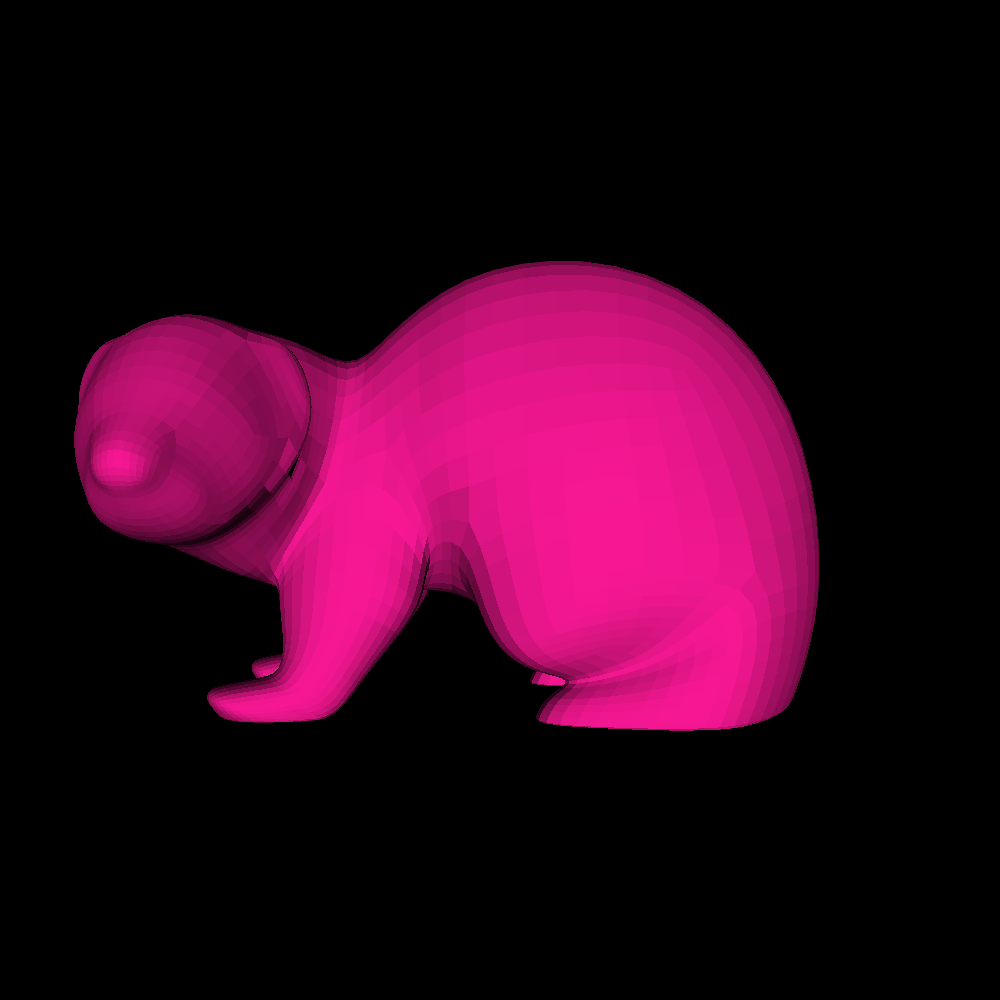
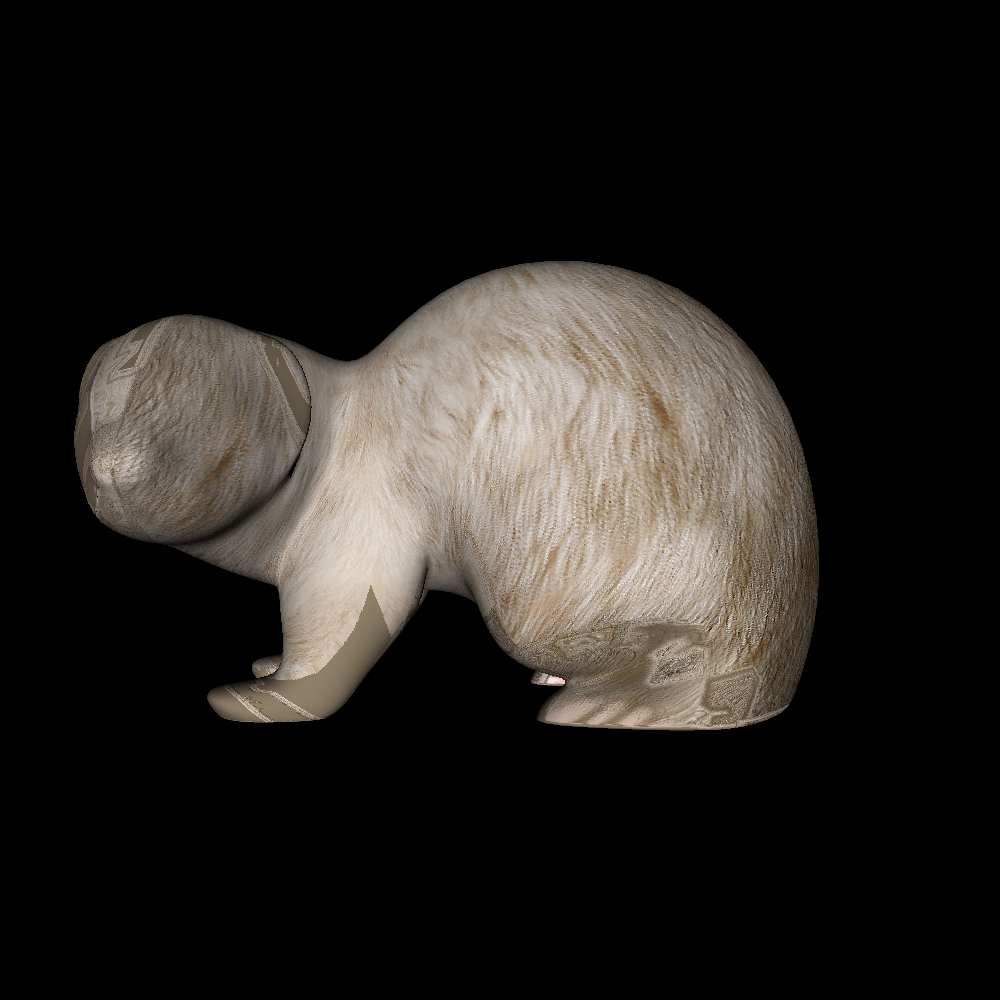
сломанные текстуры

Changed region(s): [[0.062, 0.248, 0.837, 0.744]]

diff --git a/lab3/main.py b/lab3/main.py
@@ -44,18 +44,26 @@ def normal(x0, y0, z0, x1, y1, z1, x2, y2, z2):
     return n
 
 
-def pict(x0, y0, z0, x1, y1, z1, x2, y2, z2, image_matrix, color):
+def pict(x0, y0, z0, x1, y1, z1, x2, y2, z2, image_matrix, intensity0, intensity1, intensity2, u0, v0, u1, v1, u2, v2,
+         texture_img):
     xmin = round(max(min(x0, x1, x2), 0))
     ymin = round(max(min(y0, y1, y2), 0))
     xmax = round(min(max(x0, x1, x2), 1000 - 1))
     ymax = round(min(max(y0, y1, y2), 1000 - 1))
+    width, height, colors=texture_img.shape
     for x in range(xmin, xmax + 1):
         for y in range(ymin, ymax + 1):
             l0, l1, l2 = baricentic(x, y, x0, y0, x1, y1, x2, y2)
             if (l0 >= 0 and l1 >= 0 and l2 >= 0):
                 z = l0 * z0 + l1 * z1 + l2 * z2
                 if (z < z_buffer[y, x]):
-                    image_matrix[y, x] = color
+                    intensity_for_pixel = -(intensity0*l0+intensity1*l1+intensity2*l2)
+                    if (intensity_for_pixel<0):
+                        intensity_for_pixel=0
+                    color=texture_img[round(width*(l0*u0+l1*u1+l2*u2))][ round(height * (l0*v0+l1*v1+l2*v2))]
+                    # color =np.array([248, 24, 148]) #розовый
+                    #color = np.array([0, 128, 255]) #голубой
+                    image_matrix[y, x] = intensity_for_pixel * color
                     z_buffer[y, x] = z
 
 
@@ -88,74 +96,92 @@ def rotation_matrix(x_alpha, y_beta, z_gamma):
     return r
 
 
-image_matrix = np.zeros((1000, 1000, 3), dtype=np.uint8)
+for num_of_image in range(0, 1):
+    #print(num_of_image)
+    image_matrix = np.zeros((1000, 1000, 3), dtype=np.uint8)
 
-# здесь все делаем
-z_buffer = np.zeros((1000, 1000), dtype=np.float32)
-z_buffer[0:1000, 0:1000] = np.inf
+    # здесь все делаем
+    z_buffer = np.zeros((1000, 1000), dtype=np.float32)
+    z_buffer[0:1000, 0:1000] = np.inf
 
-# vertices, polygons = input_vertices("model_1.obj")  # кролик
-# p_vertices=np.zeros(vertices.shape);  #массив для проецированных вершин
-# for i, v in enumerate(vertices):
-#     vertices[i] = np.dot(rotation_matrix(0,90,0), vertices[i])
-#     vertices[i] = [v[0], v[1] - 0.05, v[2]+0.5] #сдвиг модели
-#     p_vertices[i] = [(v[0]/v[2] * 3500) + 500, (v[1]/v[2] * 3500) + 500, 1]
+    # vertices, polygons = input_vertices("model_1.obj")  # кролик
+    # p_vertices=np.zeros(vertices.shape);  #массив для проецированных вершин
+    # for i, v in enumerate(vertices):
+    #     vertices[i] = np.dot(rotation_matrix(0,90,0), vertices[i])
+    #     vertices[i] = [v[0], v[1] - 0.05, v[2]+0.5] #сдвиг модели
+    #     p_vertices[i] = [(v[0]/v[2] * 3500) + 500, (v[1]/v[2] * 3500) + 500, 1]
 
-# vertices, polygons = input_vertices("model_2.obj")  # олень
-# for i, v in enumerate(vertices):
-#     vertices[i] = [(v[0] * 0.4) + 500, ((v[1]-625) * 0.4) + 500, (v[2] * 0.4) + 500]
+    # vertices, polygons = input_vertices("model_2.obj")  # олень
+    # for i, v in enumerate(vertices):
+    #     vertices[i] = [(v[0] * 0.4) + 500, ((v[1]-625) * 0.4) + 500, (v[2] * 0.4) + 500]
 
-# vertices, polygons = input_vertices("cat.obj")  # кошка
-# p_vertices=np.zeros(vertices.shape);  #массив для проецированных вершин
-# for i, v in enumerate(vertices):
-#     vertices[i] = np.dot(rotation_matrix(240,0,160), vertices[i])
-#     vertices[i] = [v[0]-7, v[1]-20, v[2]+40] #сдвиг модели
-#     p_vertices[i] = [(v[0]/v[2] * 400) + 500, (v[1]/v[2] * 400) + 500, 1]
+    # vertices, polygons, textures = input_vertices("cat.obj")  # кошка
+    # p_vertices=np.zeros(vertices.shape);  #массив для проецированных вершин
+    # for i, v in enumerate(vertices):
+    #     vertices[i] = np.dot(rotation_matrix(240,0,160+5*num_of_image), vertices[i])
+    #     vertices[i] = [v[0]-7, v[1]-20, v[2]+100] #сдвиг модели
+    #     p_vertices[i] = [(v[0]/v[2] * 1000) + 500, (v[1]/v[2] * 1000) + 500, 1]
 
-vertices, polygons, textures = input_vertices("ferret.obj")  # хорек
-p_vertices=np.zeros(vertices.shape)  # массив для проецированных вершин
-for i, v in enumerate(vertices):
-    vertices[i] = np.dot(rotation_matrix(270,0,270), vertices[i])
-    vertices[i] = [v[0]-7, v[1]-20, v[2]+100] # сдвиг модели
-    p_vertices[i] = [(v[0]/v[2] * 1000) + 500, (v[1]/v[2] * 1000) + 500, 1]
+    vertices, polygons, textures = input_vertices("ferret.obj")  # хорек
 
-# vertices, polygons = input_vertices("cow.obj")  # корова
-# for i, v in enumerate(vertices):
-#     vertices[i] = np.dot(rotation_matrix(80, 180, 0), vertices[i])
-#     vertices[i] = [((v[0]) * 10) + 500, ((v[1]-10) * 10) + 500, (v[2] * 10) + 500]
+    p_vertices=np.zeros(vertices.shape)  # массив для проецированных вершин
+    for i, v in enumerate(vertices):
+        vertices[i] = np.dot(rotation_matrix(270, 0,270+num_of_image*10), vertices[i])
+        vertices[i] = [v[0]-7, v[1]-20, v[2]+100] # сдвиг модели
+        p_vertices[i] = [(v[0]/v[2] * 1000) + 500, (v[1]/v[2] * 1000) + 500, 1]
 
-normals_to_vertices=np.zeros(vertices.shape)
-for i in range(len(polygons['v'])):
-    #считаем нормаль к полигону
-    n = normal(vertices[polygons['v'][i][0] - 1][0], vertices[polygons['v'][i][0] - 1][1],
-               vertices[polygons['v'][i][0] - 1][2],
-               vertices[polygons['v'][i][1] - 1][0], vertices[polygons['v'][i][1] - 1][1],
-               vertices[polygons['v'][i][1] - 1][2],
-               vertices[polygons['v'][i][2] - 1][0], vertices[polygons['v'][i][2] - 1][1],
-               vertices[polygons['v'][i][2] - 1][2])
-    for j in range(polygons['v'][i]):
-        #прибавляем нормаль к полигону ко всем вершинам, которые есть в полигоне
-        normals_to_vertices[polygons['v'][i][j]] += n
-intensity=[]
-for i in range(len(normals_to_vertices)):
-    normals_to_vertices[i]/=np.linalg.norm(normals_to_vertices[i]) #нормировали нормали
-    intensity.append(normals_to_vertices[i][2])
+    # vertices, polygons = input_vertices("cow.obj")  # корова
+    # for i, v in enumerate(vertices):
+    #     vertices[i] = np.dot(rotation_matrix(80, 180, 0), vertices[i])
+    #     vertices[i] = [((v[0]) * 10) + 500, ((v[1]-10) * 10) + 500, (v[2] * 10) + 500]
 
-for i in range(len(polygons['v'])):
-    n = normal(vertices[polygons['v'][i][0] - 1][0], vertices[polygons['v'][i][0] - 1][1], vertices[polygons['v'][i][0] - 1][2],
-               vertices[polygons['v'][i][1] - 1][0], vertices[polygons['v'][i][1] - 1][1], vertices[polygons['v'][i][1] - 1][2],
-               vertices[polygons['v'][i][2] - 1][0], vertices[polygons['v'][i][2] - 1][1], vertices[polygons['v'][i][2] - 1][2])
-    scalar = np.dot(n, [0, 0, 1]) / np.linalg.norm(n)  # нормированное скалярное произведение
-    if (scalar < 0):
-        # color = list(np.random.choice(range(256), size=3))
-        color = [-248 * scalar, -24 * scalar, -148 * scalar]
-        pict(p_vertices[polygons['v'][i][0] - 1][0], p_vertices[polygons['v'][i][0] - 1][1], vertices[polygons['v'][i][0] - 1][2],
-             p_vertices[polygons['v'][i][1] - 1][0], p_vertices[polygons['v'][i][1] - 1][1], vertices[polygons['v'][i][1] - 1][2],
-             p_vertices[polygons['v'][i][2] - 1][0], p_vertices[polygons['v'][i][2] - 1][1], vertices[polygons['v'][i][2] - 1][2], image_matrix, color)
-        if (len(polygons['v'][i]) == 4):
+    normals_to_vertices=np.zeros(vertices.shape)
+    for i in range(len(polygons['v'])):
+        #считаем нормаль к полигону
+        n = normal(vertices[polygons['v'][i][0] - 1][0], vertices[polygons['v'][i][0] - 1][1],
+                   vertices[polygons['v'][i][0] - 1][2],
+                   vertices[polygons['v'][i][1] - 1][0], vertices[polygons['v'][i][1] - 1][1],
+                   vertices[polygons['v'][i][1] - 1][2],
+                   vertices[polygons['v'][i][2] - 1][0], vertices[polygons['v'][i][2] - 1][1],
+                   vertices[polygons['v'][i][2] - 1][2])
+        for j in range(len(polygons['v'][i])):
+            #прибавляем нормаль к полигону ко всем вершинам, которые есть в полигоне
+            normals_to_vertices[polygons['v'][i][j]-1] += n
+    intensity=[]
+    for i in range(len(normals_to_vertices)):
+        normals_to_vertices[i]/=np.linalg.norm(normals_to_vertices[i]) #нормировали нормали
+        intensity.append(normals_to_vertices[i][2])
+
+    texture_image=Image.open("ferret_texture.jpg")
+    texture_image_np=np.array(texture_image)
+    for i in range(len(polygons['v'])):
+        n = normal(vertices[polygons['v'][i][0] - 1][0], vertices[polygons['v'][i][0] - 1][1], vertices[polygons['v'][i][0] - 1][2],
+                   vertices[polygons['v'][i][1] - 1][0], vertices[polygons['v'][i][1] - 1][1], vertices[polygons['v'][i][1] - 1][2],
+                   vertices[polygons['v'][i][2] - 1][0], vertices[polygons['v'][i][2] - 1][1], vertices[polygons['v'][i][2] - 1][2])
+        scalar = np.dot(n, [0, 0, 1]) / np.linalg.norm(n)  # нормированное скалярное произведение
+        if (scalar < 0):
+            # color = list(np.random.choice(range(256), size=3))
+            color = np.array([248.0, 24.0, 148.0])
+
+
             pict(p_vertices[polygons['v'][i][0] - 1][0], p_vertices[polygons['v'][i][0] - 1][1], vertices[polygons['v'][i][0] - 1][2],
-                 p_vertices[polygons['v'][i][2] - 1][0], p_vertices[polygons['v'][i][2] - 1][1], vertices[polygons['v'][i][2] - 1][2],
-                 p_vertices[polygons['v'][i][3] - 1][0], p_vertices[polygons['v'][i][3] - 1][1], vertices[polygons['v'][i][3] - 1][2], image_matrix, color)
-img = Image.fromarray(image_matrix, mode='RGB')
-img = ImageOps.flip(img)
-img.save('ferret.png')
+                 p_vertices[polygons['v'][i][1] - 1][0], p_vertices[polygons['v'][i][1] - 1][1], vertices[polygons['v'][i][1] - 1][2],
+                 p_vertices[polygons['v'][i][2] - 1][0], p_vertices[polygons['v'][i][2] - 1][1], vertices[polygons['v'][i][2] - 1][2], image_matrix,
+                 intensity[polygons['v'][i][0] - 1], intensity[polygons['v'][i][1] - 1], intensity[polygons['v'][i][2] - 1],
+                 textures[polygons['v'][i][0]-1][0], textures[polygons['v'][i][0]-1][1],
+                 textures[polygons['v'][i][1]-1][0], textures[polygons['v'][i][1]-1][1],
+                 textures[polygons['v'][i][2]-1][0], textures[polygons['v'][i][2]-1][1],
+                 texture_image_np)
+            if (len(polygons['v'][i]) == 4):
+                pict(p_vertices[polygons['v'][i][0] - 1][0], p_vertices[polygons['v'][i][0] - 1][1], vertices[polygons['v'][i][0] - 1][2],
+                     p_vertices[polygons['v'][i][2] - 1][0], p_vertices[polygons['v'][i][2] - 1][1], vertices[polygons['v'][i][2] - 1][2],
+                     p_vertices[polygons['v'][i][3] - 1][0], p_vertices[polygons['v'][i][3] - 1][1], vertices[polygons['v'][i][3] - 1][2], image_matrix,
+                     intensity[polygons['v'][i][0] - 1], intensity[polygons['v'][i][2] - 1], intensity[polygons['v'][i][3] - 1],
+                     textures[polygons['v'][i][0] - 1][0], textures[polygons['v'][i][0] - 1][1],
+                     textures[polygons['v'][i][2] - 1][0], textures[polygons['v'][i][2] - 1][1],
+                     textures[polygons['v'][i][3] - 1][0], textures[polygons['v'][i][3] - 1][1],
+                     texture_image_np)
+    img = Image.fromarray(image_matrix, mode='RGB')
+    img = ImageOps.flip(img)
+    #img.save(f'cat/{num_of_image}.png')
+    img.save('ferret.png')
